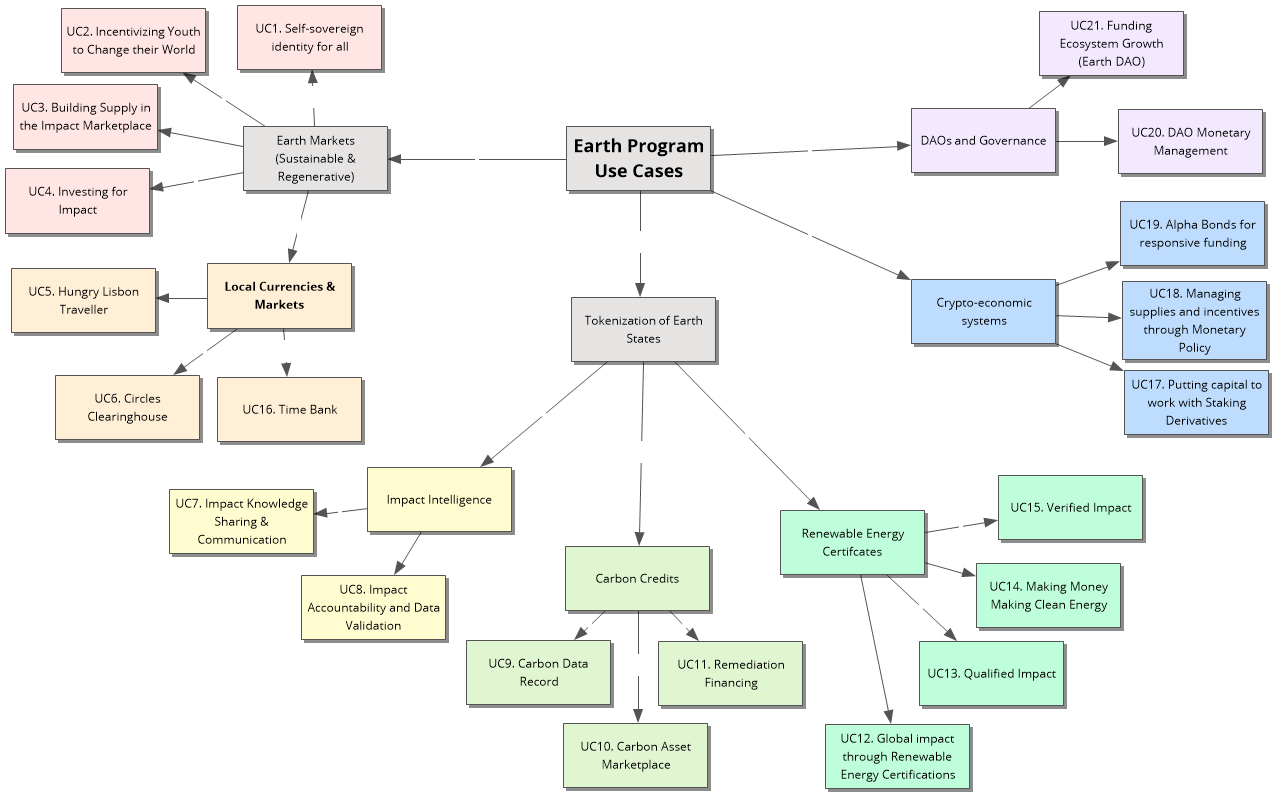
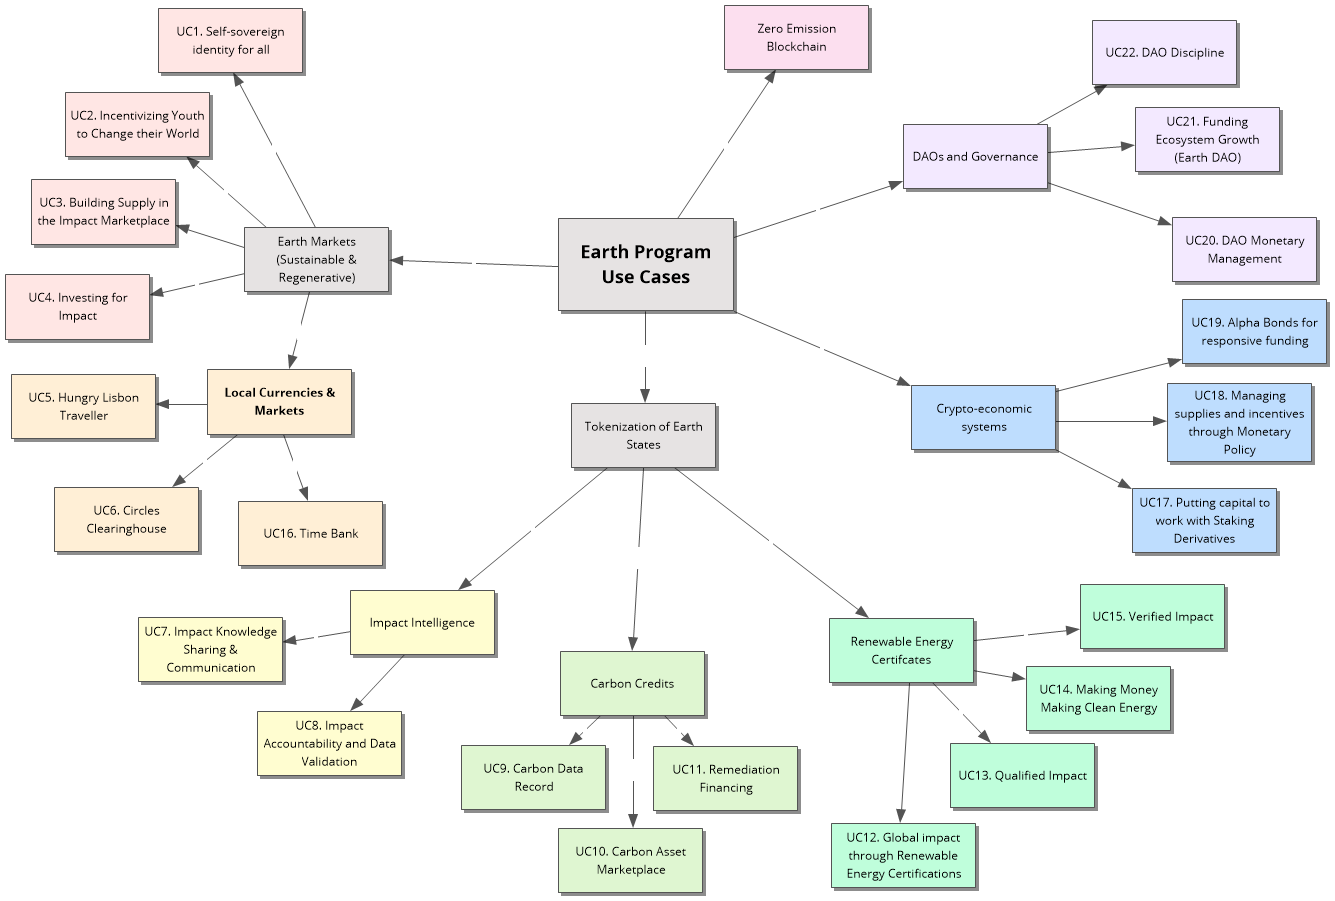
added UC22 DAO Discipline

diff --git a/index.md b/index.md
@@ -72,3 +72,7 @@ Once operational, Helen finds a verification agent, Lynn, who was able to inspec
 ## UC15 Verified Impact
 
 Lynn is a verification agent for REC2022. She is called by HydroElec to audit their new production facility. After reviewing the certified proposal, she visits the HydroElec site to inspect and verify both the capacity of the system under operating conditions and the security of the automated smart meters. She uses a standard set of criteria established by the UN to record her observations and make a determination about the project’s compliance with both its certified proposal and UN requirements. After finding everything in order, Lynn issues a verification credential with a six month expiry and a maximum capacity of 20 billion kWh, which she gives to HydroElec. The credential references both the original proposal and its certification using machine-verifiable identifiers to ensure the authenticity of the verification.
+
+## UC22 DAO Discipline
+
+The Ndugu Vijana Chama’s CIC currency has reached 80 cents on the shilling for the third time this year. The other Chamas need to decide on whether to take disciplinary action, rehabilitative action, or to expel the group from the Sarafu Network. They have a deliberation. There are 2 proposals for rehabilitation, 1 proposal for disciplinary action, and 1 proposal to eject them. Each chama has a weighted vote based on the number of people in the chama, and based on the status of the chama (reputation) in the network. Each Chama receives 10 points to distribute among the 5 proposals on the table. They can give all votes to one or divide their points between the different proposals depending on the strength of each proposal.
